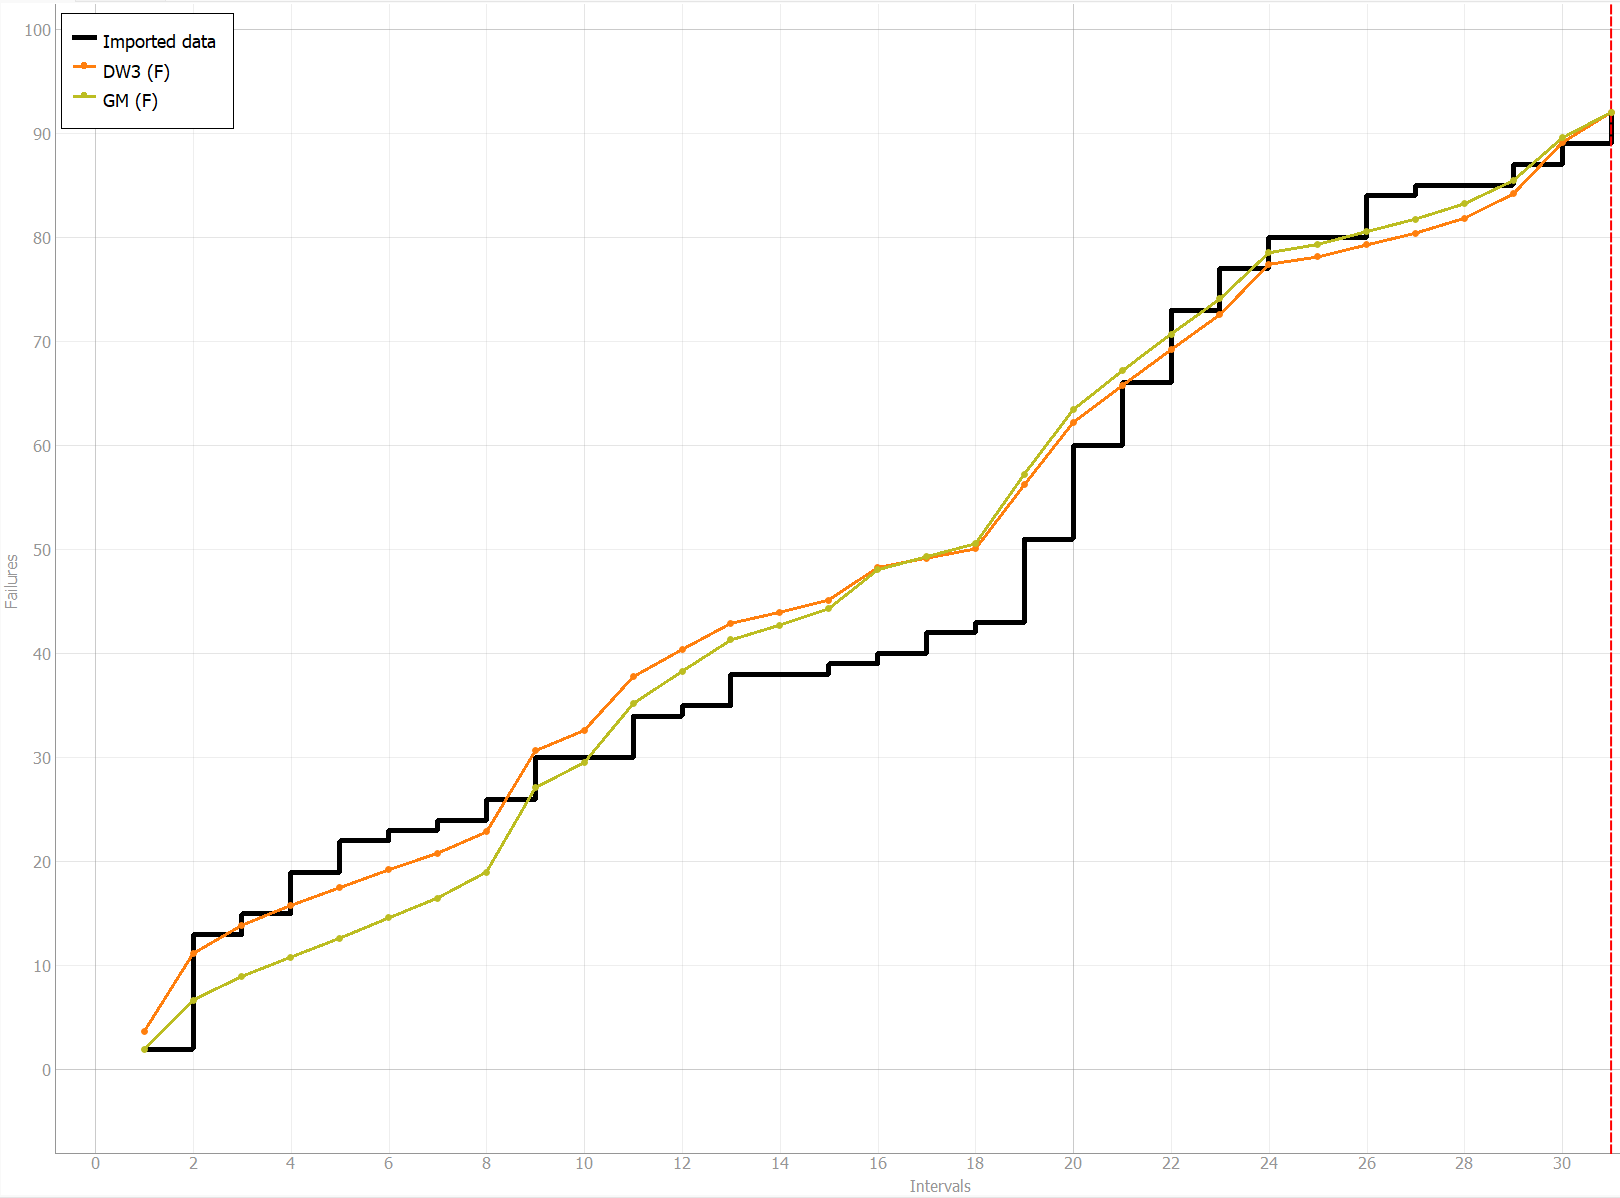
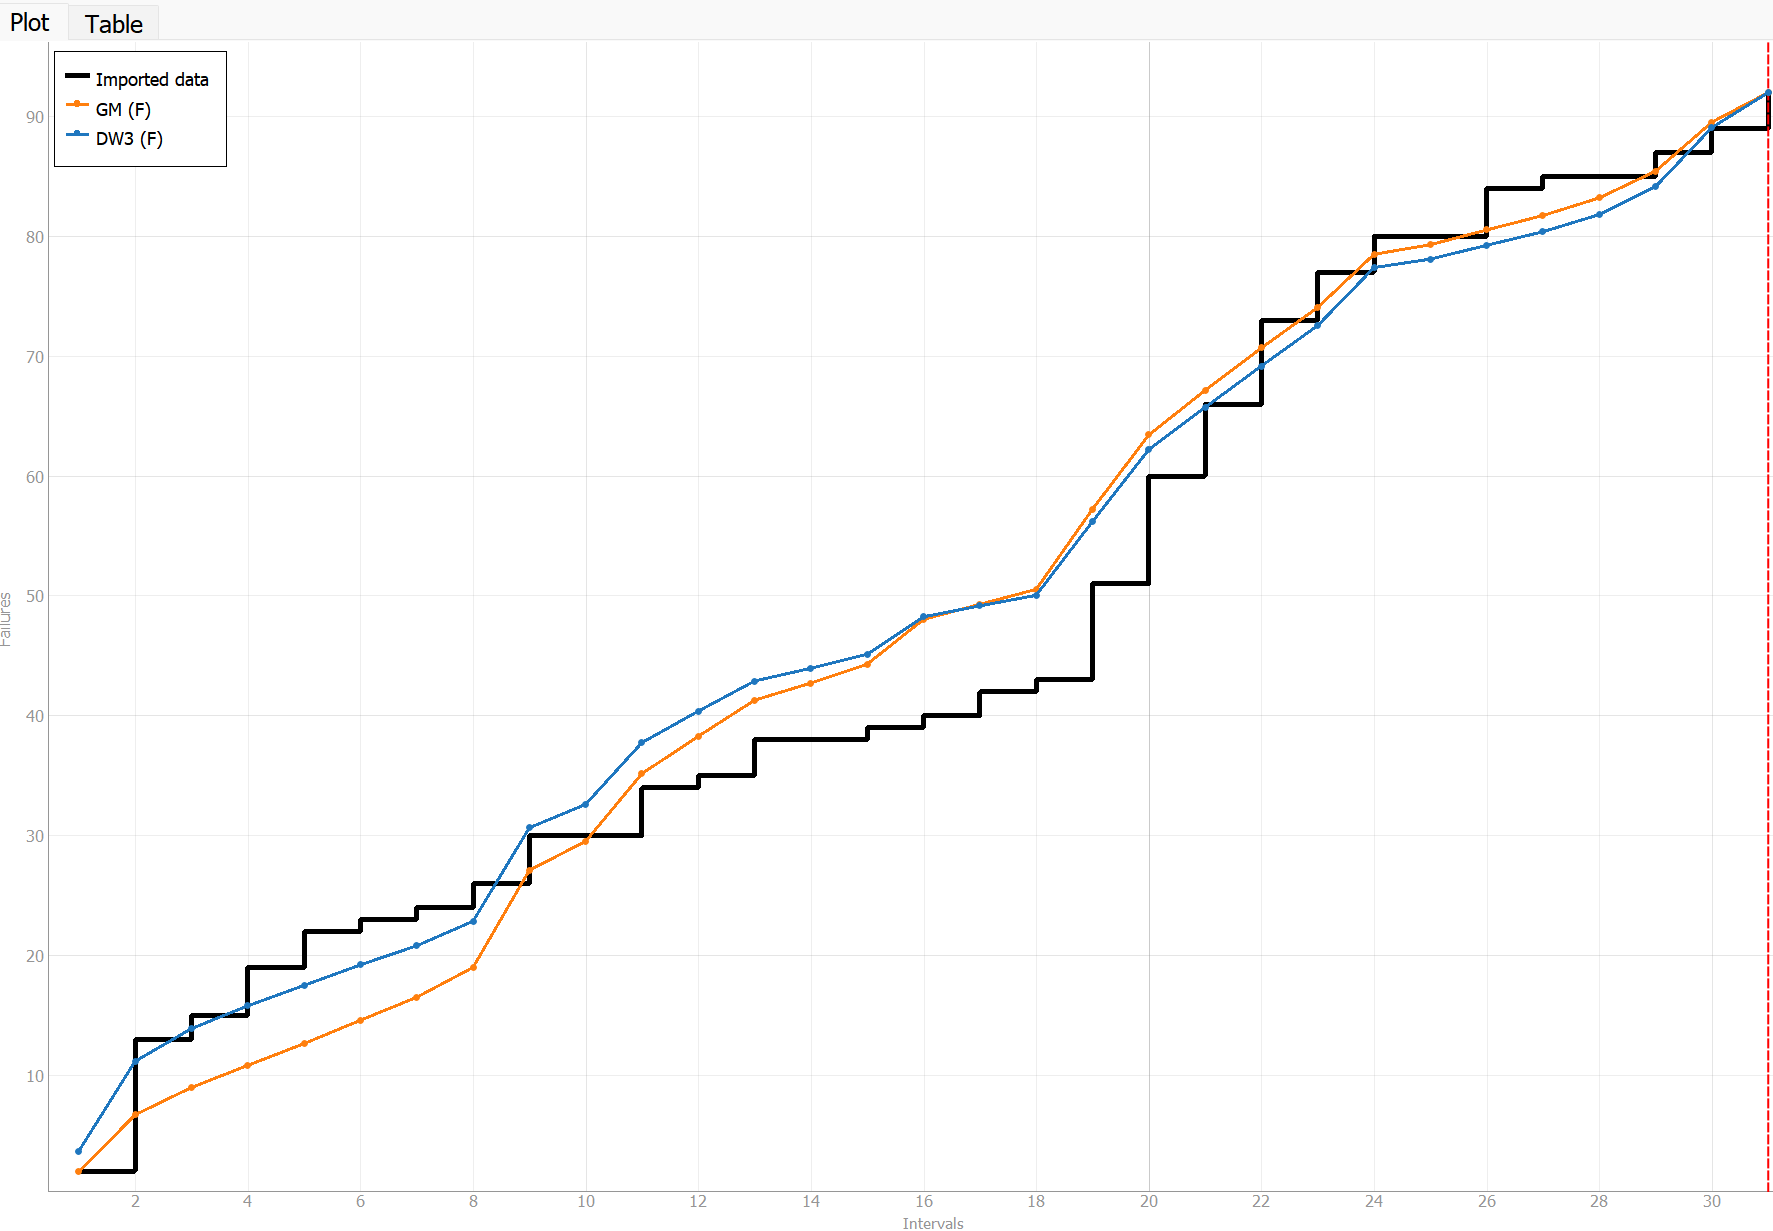
part 1

diff --git a/seng637-a5-21.md b/seng637-a5-21.md
@@ -34,20 +34,49 @@ When testing the full dataset, each model/hazard method in C-SFRAT was applied t
 - Negative Binomial (Order 2)
 - Truncated Logistic
 
-These Each model was also tested with varying covariates between E, F and C. This allows the variable to be predictors in the model to adjust the estimates of the primary effect. The full comparison of each model across the entire dataset was exported to the csv [Model Results Group 21](./model_results_group21.csv)
-.
+These Each model was also tested with varying covariates between E, F and C. This allows the variable to be predictors in the model to adjust the estimates of the primary effect. 57 combination were testedand the dataset was exported to a csv and can be seen in [model_results_group21](./model_results_group21.csv).
 
-From the dataset, the ranking of the best 2 models were determined by putting more consideration on the BIC (Bayesian Information Criterion) and AIC (Akaike Information Criterion) metrics. This is due to the nature of these methods that penalize overfitting, preventing unnecessary complexity. They both provide a goodness of fit although have slight differences in their methodology. A lower value for either metric signifies a better fit.
+From the dataset, the ranking of the best 2 models were determined by considering the metric weights giving slightly more weight to the BIC (Bayesian Information Criterion) and AIC (Akaike Information Criterion) metrics. This is due to the nature of these methods that penalize overfitting, preventing unnecessary complexity. They are a metric that gives insight into the goodness of fit although have slight differences in their methodology. A lower value for either metric signifies a better fit. Other metrics were considered as well, such as Error Sum of Squares (SSE) ensure these models had good performance across the various metrics.
 
-In the dataset for all models, the top 2 both had the lowest scores for BIC and AIC and can be seen in the figure below. These were 1. DW3 model with F covariate. and 2. GMOther metrics were considered as well, such as Error Sum of Squares (SSE) to ensure these models had good performance across various metrics.
+In the dataset for all models, the top 2 both had the lowest scores for BIC and AIC and was determined by considering the critic method, which can rank based on the weighted combination of the metrics. The top 2 models can be seen below. These were 1. DW3 model with F covariate. and 2. Geometric with F covariate.
 
 ![top2table](/screenshots/top_2_table.png?raw=true)
 
-The plot of failures vs. intervals for the top 2 models with the imported failure data can be seen below.
+The plot of time to failures plot for the top 2 models against the imported failure data can be seen below.
 
 ![top2plot](/screenshots/top_2_plot.png?raw=true)
 
-JF - add intensity plot, talk about sub-intervals , and acceptable error
+When considering the range analysis of the dataset, subsets were tested sequentially to assess at which point, the model could continue to make relatively accurate predictions on the test data. It was observed that after including some points after the slope increase (around interval 19-22) provided enough information to the model to continue predicting accurately. The good fit that allowed to test against adequate testing points seemed to be using interval 0-22, which was about 70% of the training data. The remaining 20% (interval 23-31) was used to see if the model could generalize well.
+
+The below image shows the top 2 models predicting the remaining 9 intervals of the testing data (interval 23-31) where the GM model is in orange and DW3 in blue. The best results came from adding more effort per interval to the F covariate.
+
+![top2plot](/screenshots/top_2_predict.png?raw=true)
+
+The intensity plot for the sub-interval can be seen below. The sofware was unable to show the predicted intensity for the remaining points on the plot. Those were manually calculated using the data from the table rather than the plot.
+
+![top2plot](/screenshots/top_2_intensity.png?raw=true)
+
+The failure rate was then determined using the full data to compare against the failure rate of the predictions from the DW3 and GM models.
+
+| Dataset       | Failure Rate (F/interval) | MTTF (intervals) |
+| ------------- | ------------------------- | ---------------- |
+| original data | 92/31 = 2.96              | 1/2.96 = 0.337   |
+| DW3 Predict   | 88/31 = 2.83              | 1/2.83 = 0.353   |
+| GM Predict    | 92/21 = 2.96              | 1/2.96 = 0.337   |
+
+The resulting failure rate from the original data and the predictions of the top 2 models are relatively close across the whole interval, suggesting the models were a good fit and generalized well to the test data.
+
+### Decision making for target failure rate
+
+Given the results, a company may base future performance against a set failure rate based on historical performance, similar to this lab. They can then use models to predict if the failure rate may become unacceptable in the future.
+
+In this lab, if the failure data was an accurate representation of the company's operational conditions, a failure rate of 3 may be a good target value to maintain.
+
+### Advantages and disadvantages of reliability growth testing
+
+Some advantages include the predicting ability, allowing organizations to make informed decisions or allocate resources differently if needed. It can also be advantageous to identify problematic areas such as surges in the systems reliability and failures.
+
+The disadvantages are the difficulty to actually predict reliability. Results may be different and there are often many external variables that may alter the reliability. Additionally, this analysis requires data on the system's reliability. This is not always available, accurate or easy to collect. This may be a hurdle for organizations to correctly implement.
 
 # Assessment Using Reliability Demonstration Chart
 
